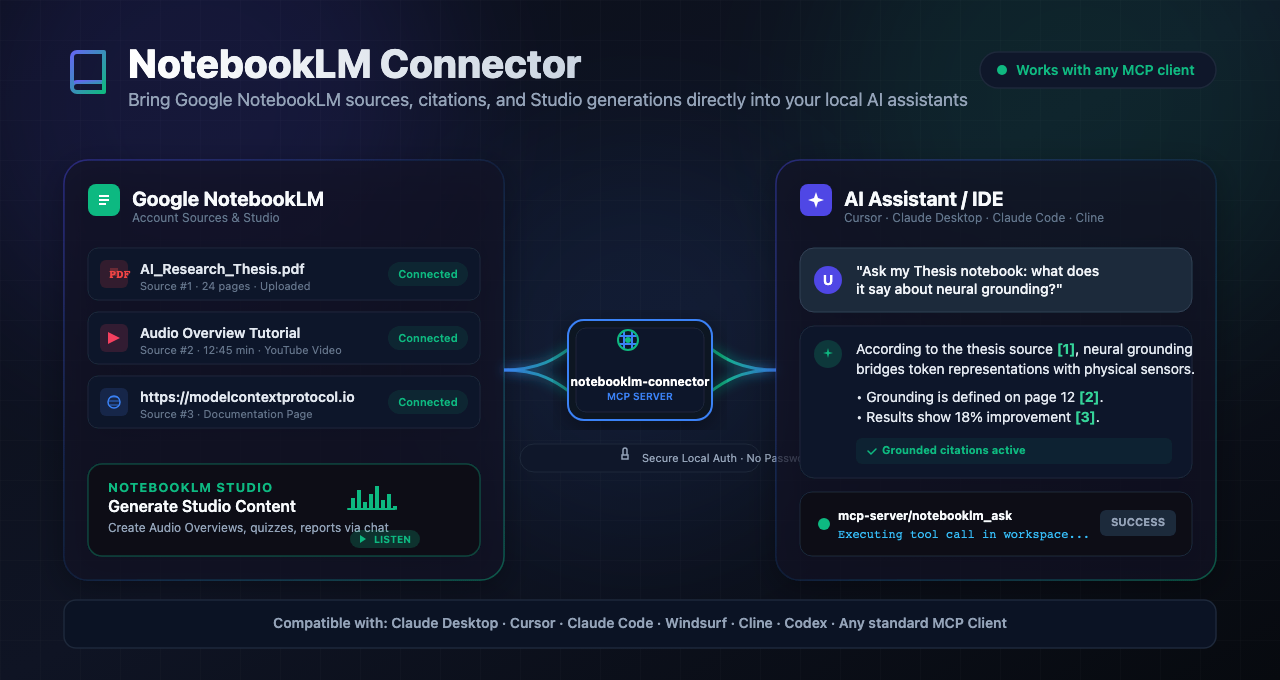
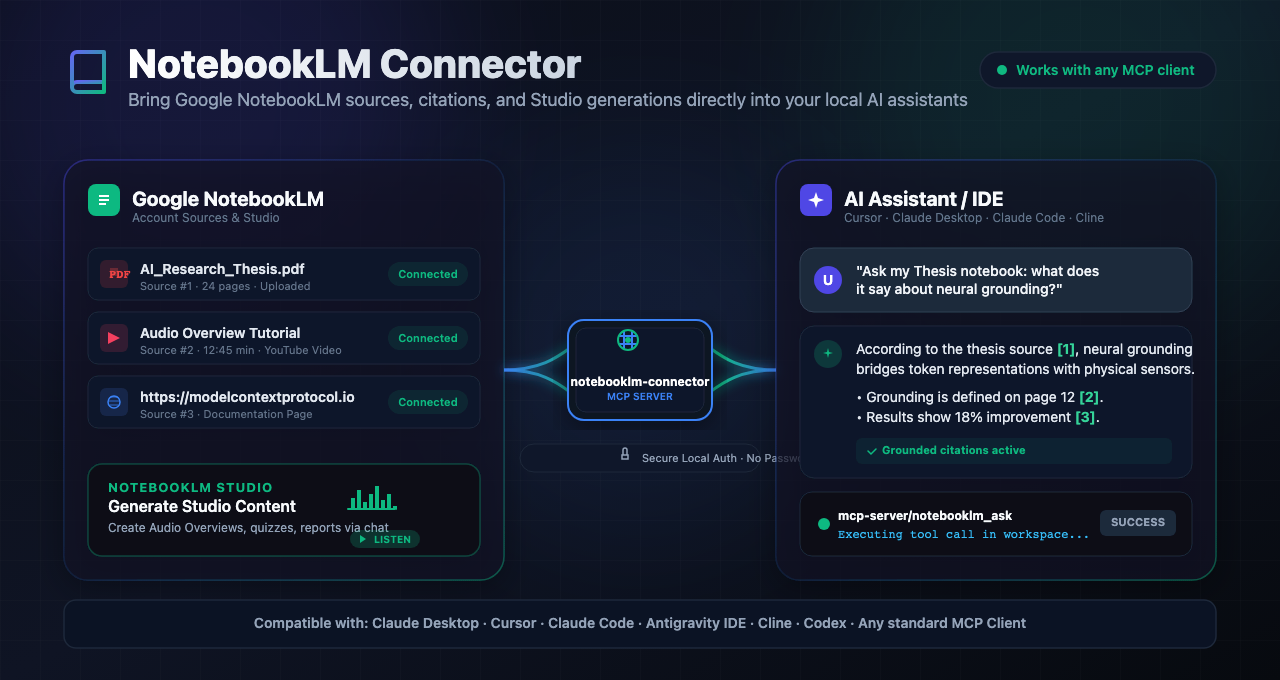
docs: replace Windsurf references with Antigravity IDE across README, pyproject, landing page, and hero SVG/PNG assets

Changed region(s): [[0.1875, 0.8956, 0.8125, 0.9265]]

diff --git a/site/index.html b/site/index.html
@@ -860,7 +860,7 @@
       <g transform="translate(64, 600)">
         <rect width="1152" height="48" rx="12" fill="#0B1324" stroke="#1E293B" stroke-width="1.5"/>
         <text x="576" y="28" class="font-sans" font-size="14" font-weight="600" fill="#94A3B8" text-anchor="middle">
-          Compatible with: Claude Desktop  ·  Cursor  ·  Claude Code  ·  Windsurf  ·  Cline  ·  Codex  ·  Any standard MCP Client
+          Compatible with: Claude Desktop  ·  Cursor  ·  Claude Code  ·  Antigravity IDE  ·  Cline  ·  Codex  ·  Any standard MCP Client
         </text>
       </g>
     </svg>
@@ -868,7 +868,7 @@
 
   <div class="clients">
     Drop it into
-    <div class="row"><span>Claude Desktop</span><span>·</span><span>Cursor</span><span>·</span><span>Codex</span><span>·</span><span>Claude Code</span><span>·</span><span>Windsurf</span><span>·</span><span>Antigravity</span></div>
+    <div class="row"><span>Claude Desktop</span><span>·</span><span>Cursor</span><span>·</span><span>Codex</span><span>·</span><span>Claude Code</span><span>·</span><span>Antigravity IDE</span></div>
   </div>
 </div></header>
 
@@ -1011,7 +1011,7 @@
     <!-- Tab 4: Other -->
     <div class="tab-content" id="tab-other">
       <div class="icard">
-        <h3>Manual Configuration <span class="tag">Windsurf · Cline · Antigravity</span></h3>
+        <h3>Manual Configuration <span class="tag">Antigravity IDE · Cline</span></h3>
         <div class="sub">Add this block to your local client's MCP configuration file:</div>
         <div class="code">{
   "mcpServers": {

diff --git a/README.md b/README.md
@@ -6,7 +6,7 @@
 
 ![NotebookLM Connector — install, connect, and ask your Google NotebookLM notebooks from inside any AI assistant](assets/hero.png)
 
-Bring your **Google NotebookLM** notebooks into **any AI assistant that speaks [MCP](https://modelcontextprotocol.io)** — Claude, Cursor, Codex, Windsurf, Cline, and more. Ask questions answered only from your own sources (with citations), add sources, and generate Audio Overviews, reports, quizzes, and more — all from a normal chat.
+Bring your **Google NotebookLM** notebooks into **any AI assistant that speaks [MCP](https://modelcontextprotocol.io)** — Claude, Cursor, Codex, Antigravity IDE, Cline, and more. Ask questions answered only from your own sources (with citations), add sources, and generate Audio Overviews, reports, quizzes, and more — all from a normal chat.
 
 ## Install
 
@@ -48,7 +48,7 @@ In the agent side panel: **⋯ → MCP Servers → Manage MCP Servers → View r
 }
 ```
 
-### Any other MCP client (Windsurf, Cline, …)
+### Any other MCP client (Antigravity IDE, Cline, …)
 
 Add the same `mcpServers` entry shown above to the client’s MCP config.
 
